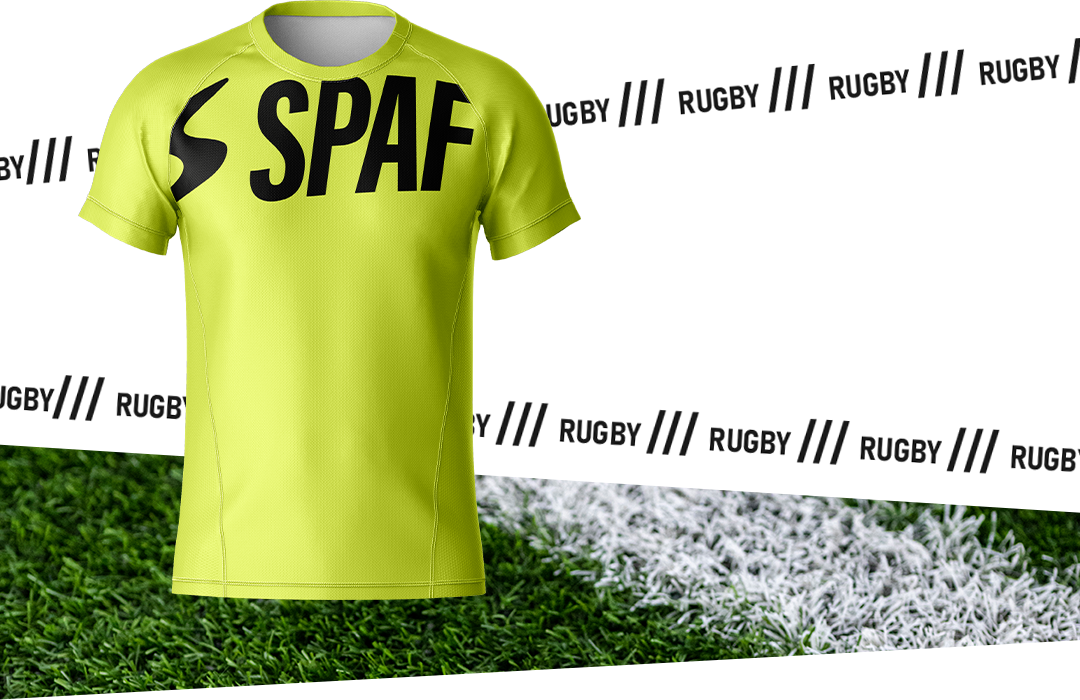
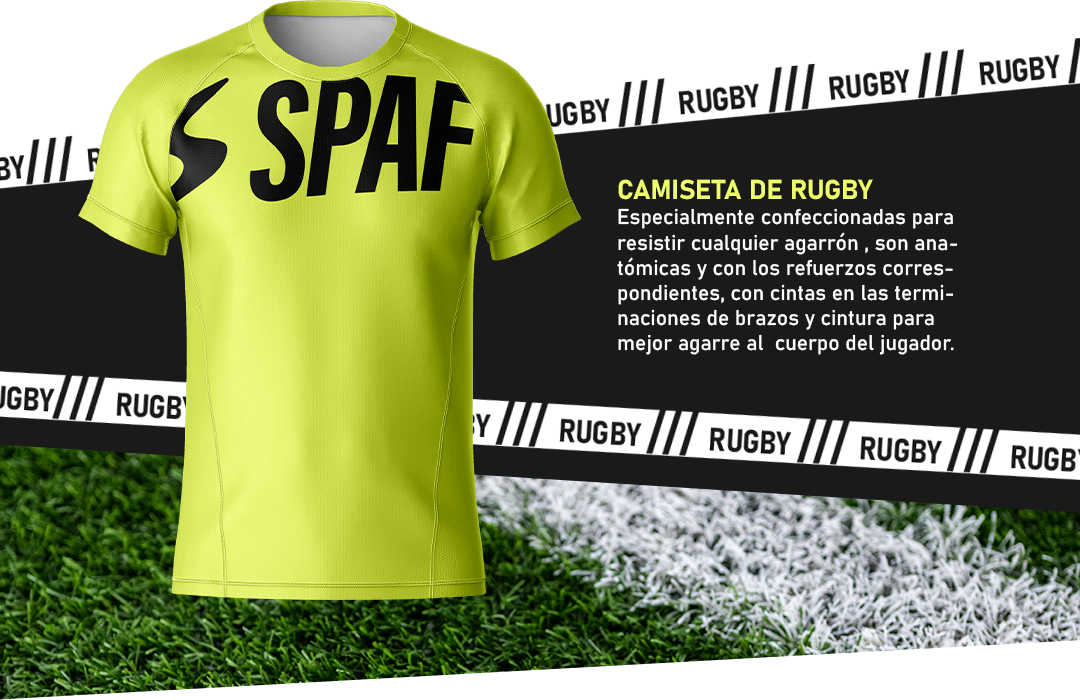
tipos de prendas

diff --git a/pages/prendas-depor.html b/pages/prendas-depor.html
@@ -63,12 +63,23 @@
             <img src="../asets/img/deportivo/reme mujer 2.png" alt="" class="hombre-clasica-img">
         </div>
         <div class="rugby">
-            
+            <img src="../asets/img/deportivo/rugby.png" alt="" class="hombre-clasica-img">
+        </div>
+        <div class="chomba">
+            <img src="../asets/img/deportivo/CHOMBA.png" alt="" class="hombre-clasica-img">
         </div>
     </section>
 
 
     <footer>
+        <p class="m-0 small"><a href="https://www.instagram.com/spafindumentaria/" target="_blank">&copy; Spaf 2023</a>
+            . All Rights Reserved
+            <br />
+            <a href="https://www.linkedin.com/in/maxirey28/" target="_blank">&copy; Maximiliano Rey</a>
+            Developer
+        </p>
+        <br />
+        <br />
 
     </footer>
 

diff --git a/pages/deportivo.html b/pages/deportivo.html
@@ -84,6 +84,14 @@
 
 
     <footer>
+        <p class="m-0 small"><a href="https://www.instagram.com/spafindumentaria/" target="_blank">&copy; Spaf 2023</a>
+            . All Rights Reserved
+            <br />
+            <a href="https://www.linkedin.com/in/maxirey28/" target="_blank">&copy; Maximiliano Rey</a>
+            Developer
+        </p>
+        <br />
+        <br />
 
     </footer>
 
